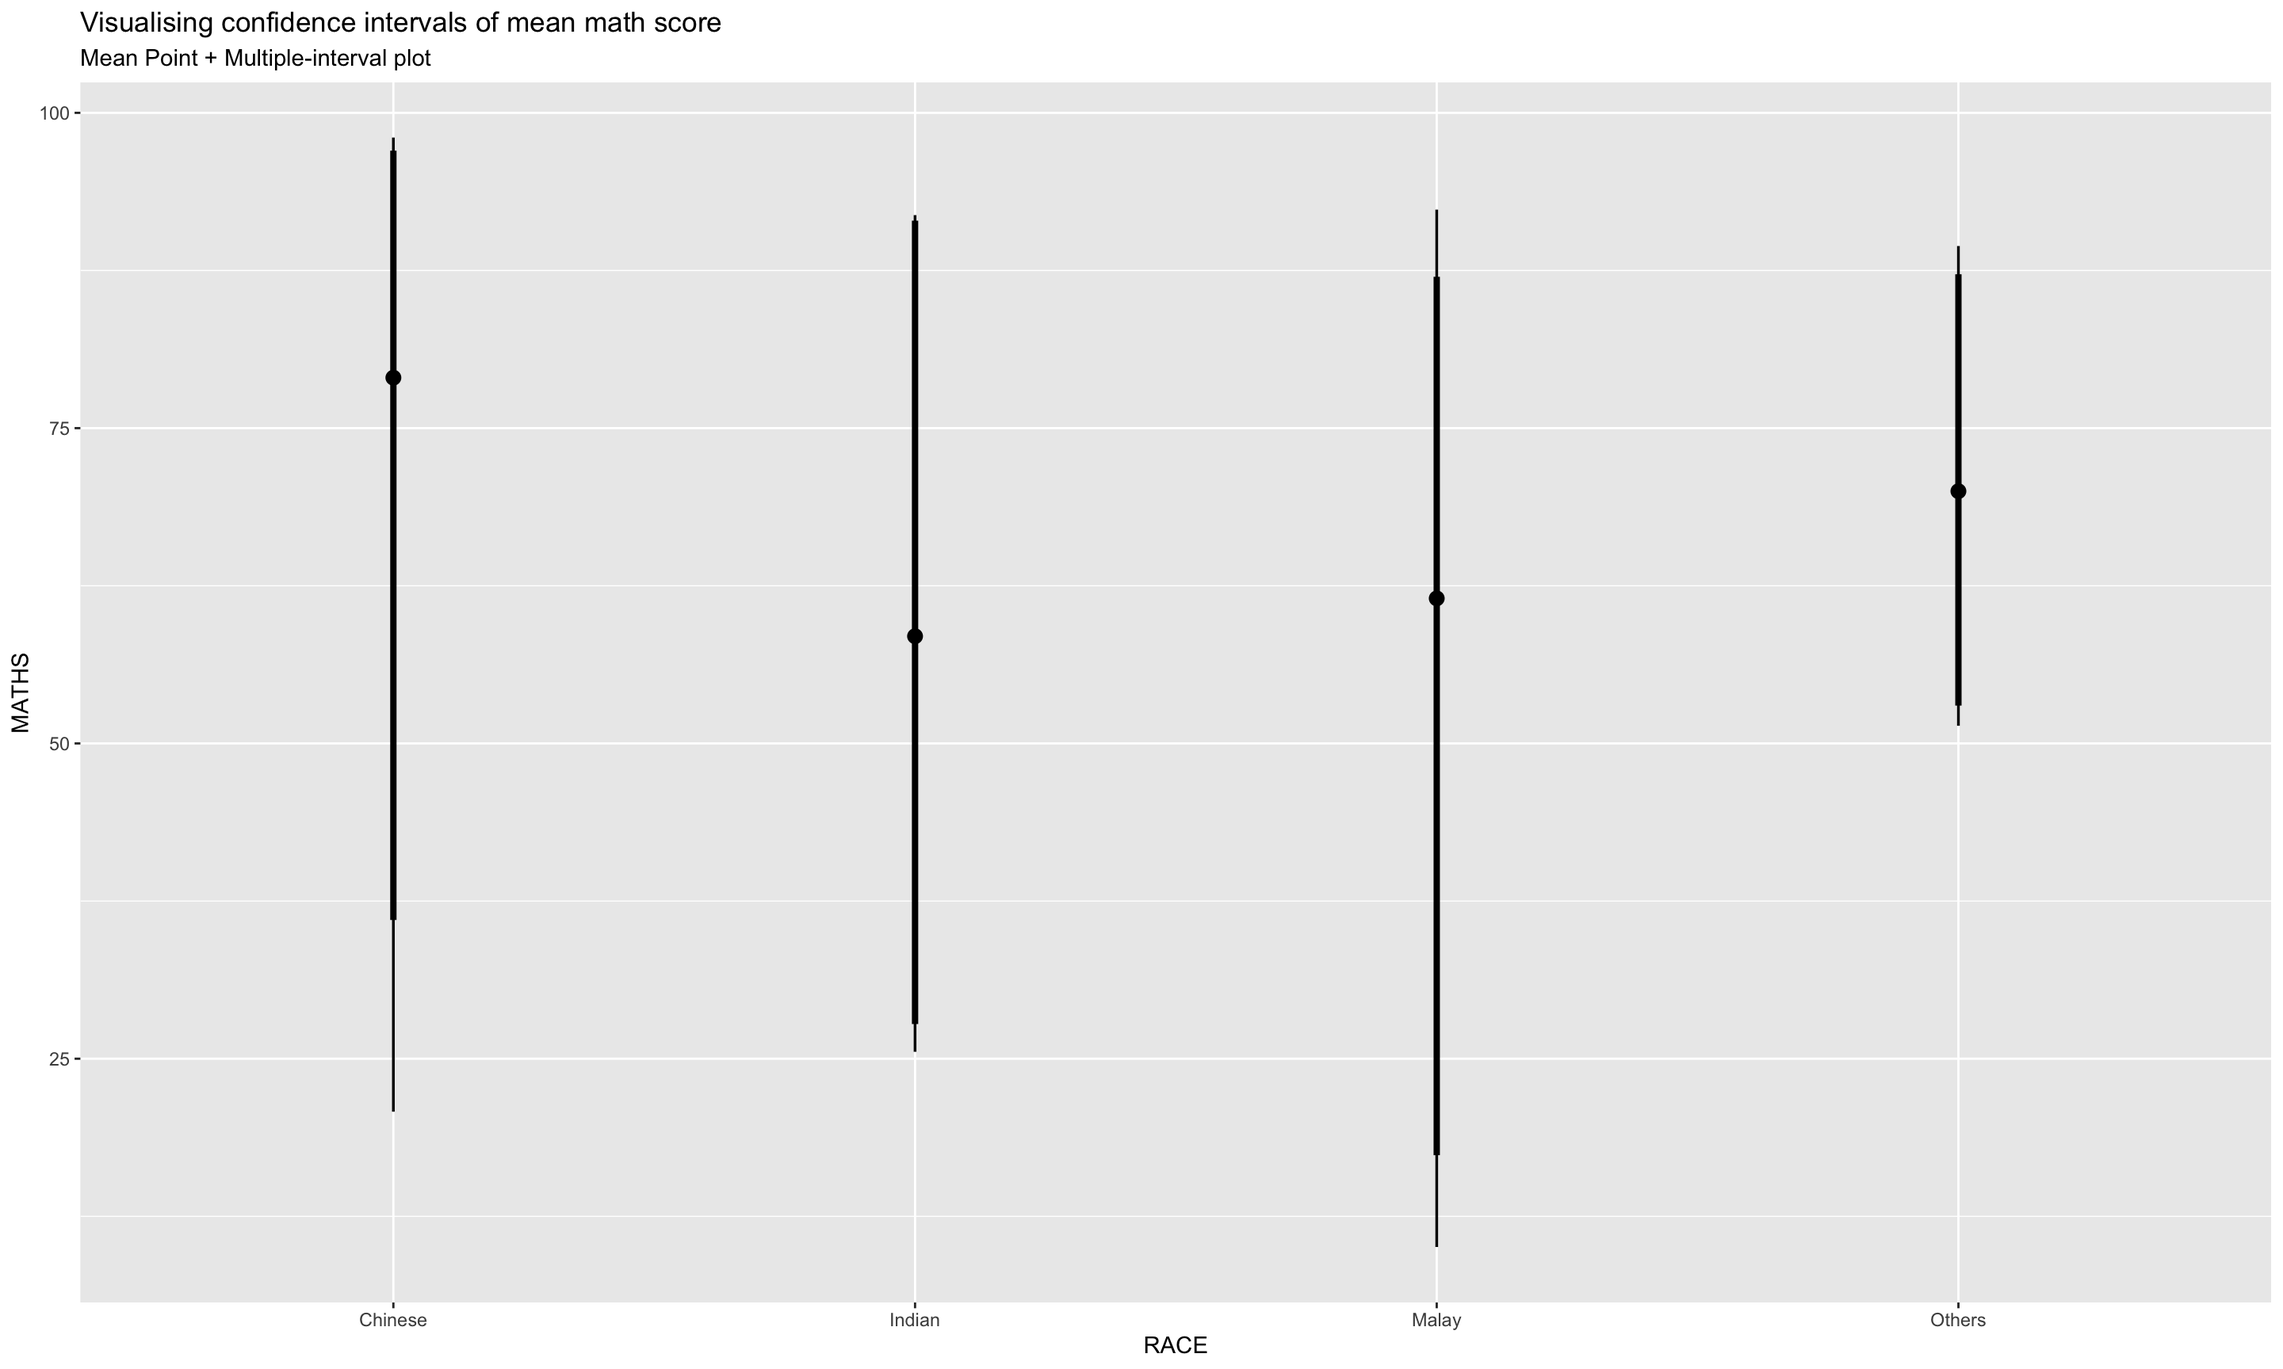
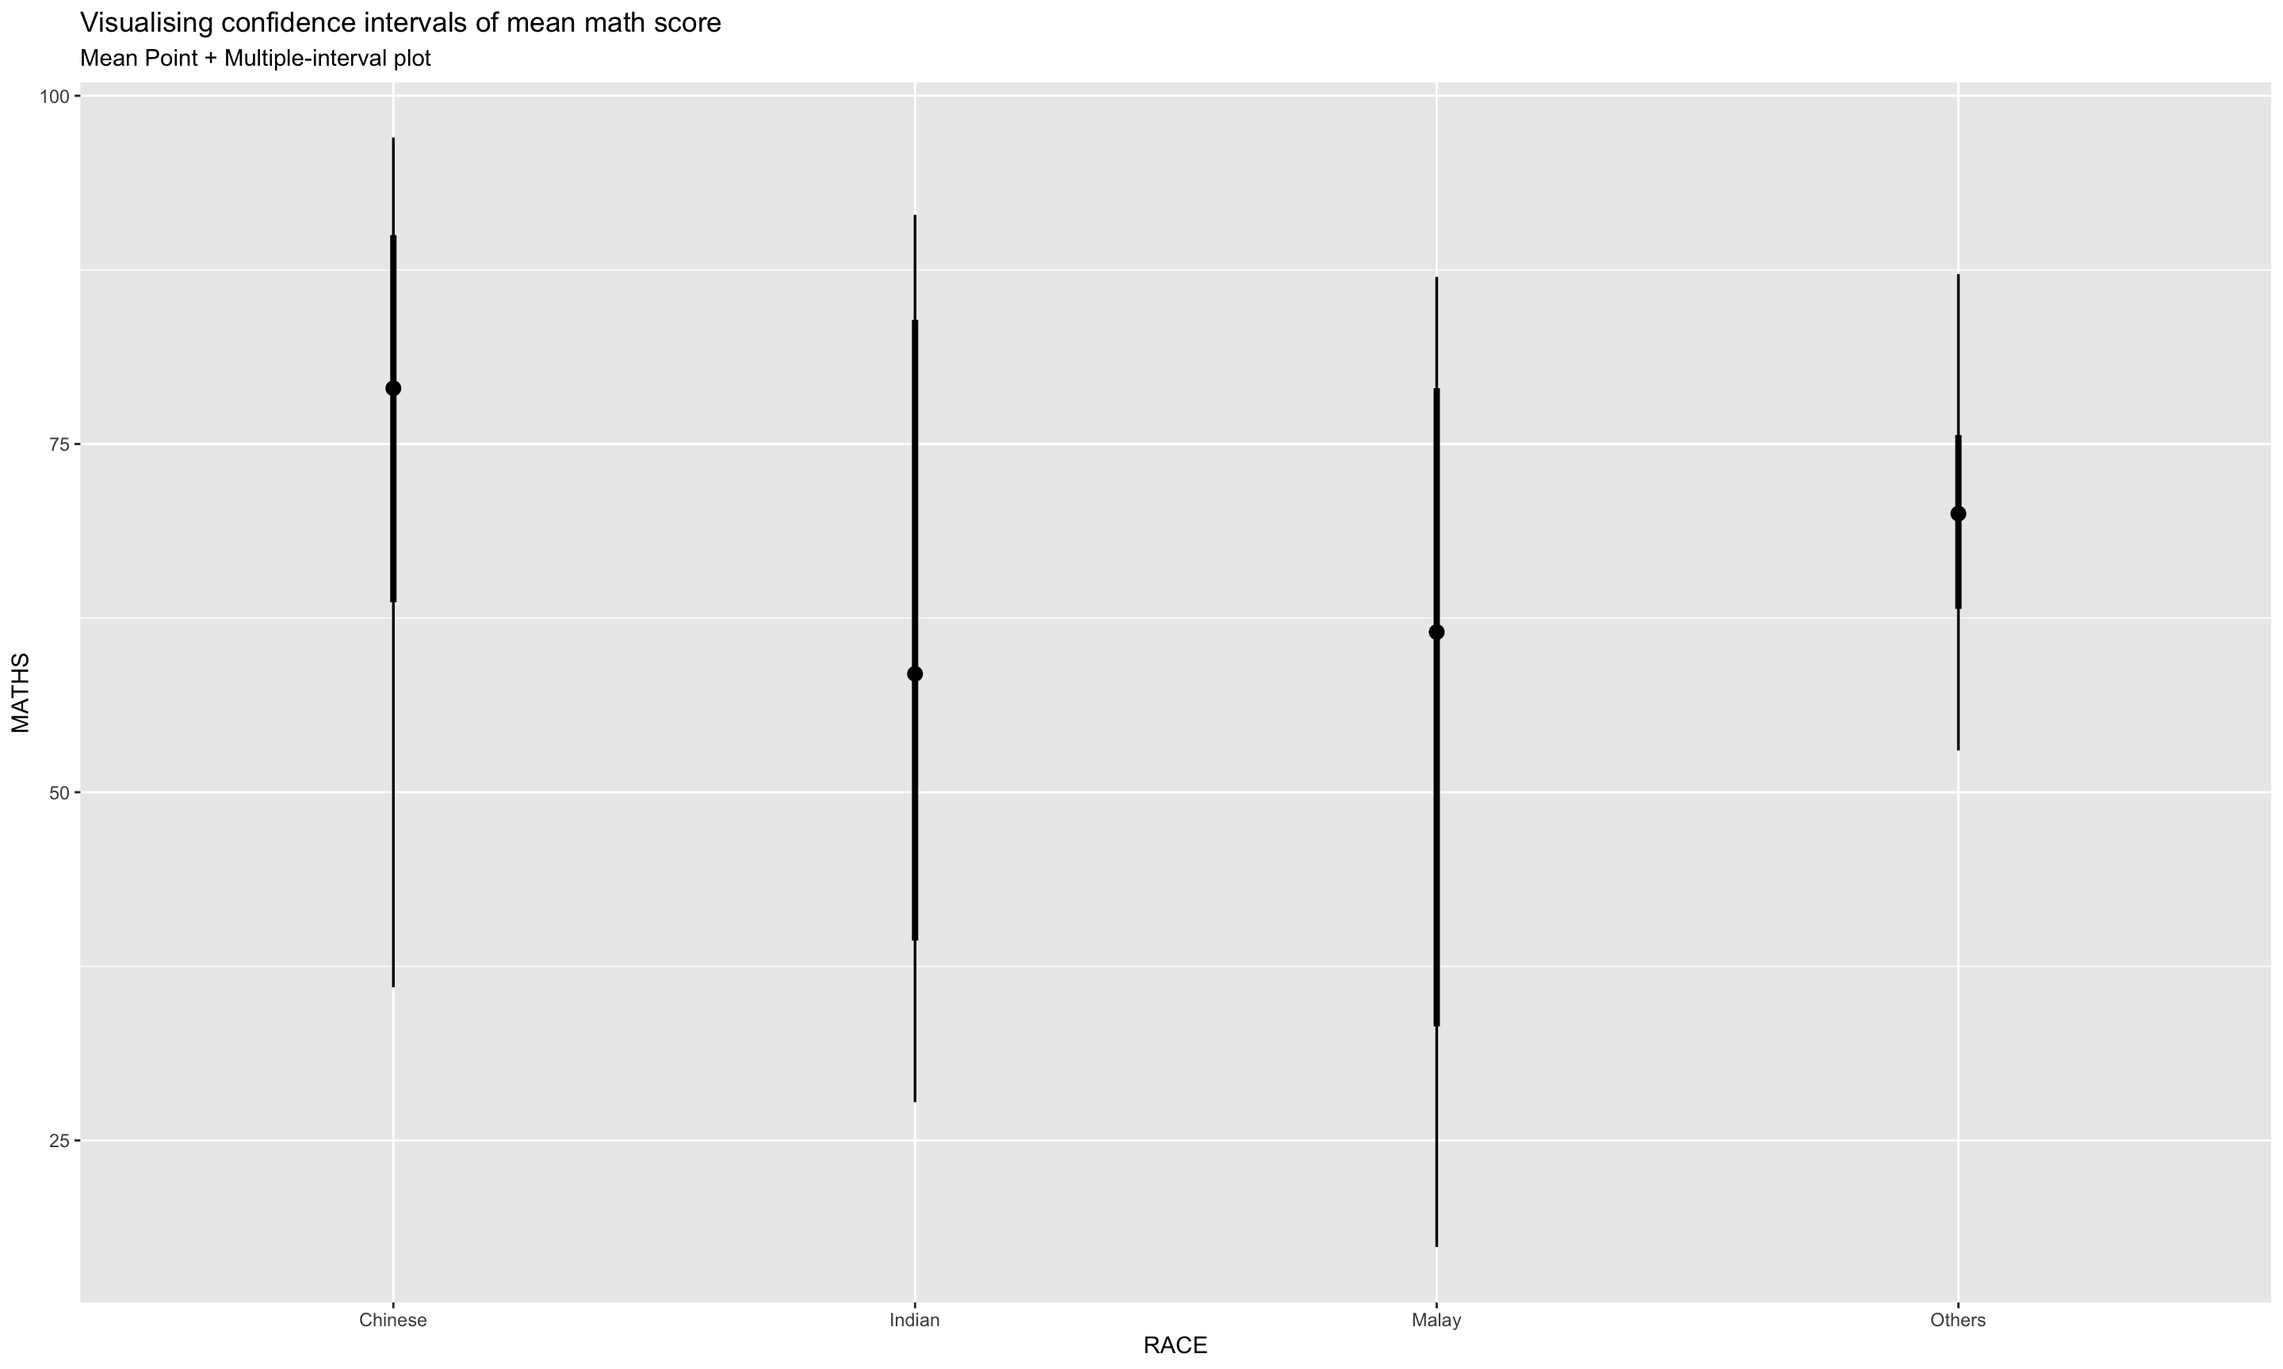
Update graph

Changed region(s): [[0.0, 0.0625, 0.0312, 0.0938]]

diff --git a/_site/Hands_on_Ex04_3.html b/_site/Hands_on_Ex04_3.html
@@ -566,12 +566,12 @@ Note
 <div class="container-fluid crosstalk-bscols">
 <div class="row">
 <div class="col-xs-4">
-<div class="plotly html-widget html-fill-item" id="htmlwidget-d764519656b48286ec9b" style="width:100%;height:400px;"></div>
-<script type="application/json" data-for="htmlwidget-d764519656b48286ec9b">{"x":{"data":[{"x":[1,3,4,2],"y":[76.507772020725383,60.666666666666671,57.444444444444429,69.666666666666671],"text":"","key":["1","2","3","4"],"type":"scatter","mode":"lines","opacity":0.90000000000000002,"line":{"color":"transparent"},"error_y":{"array":[2.9214818033281915,18.16579402963913,5.2713960499886028,9.7819093228264933],"arrayminus":[2.9214818033281915,18.16579402963913,5.2713960499886028,9.7819093228265004],"type":"data","width":17.142857142857164,"symmetric":false,"color":"rgba(0,0,0,1)"},"set":"SharedData370dd872","showlegend":false,"xaxis":"x","yaxis":"y","hoverinfo":"text","_isNestedKey":false,"frame":null},{"x":[1,3,4,2],"y":[76.507772020725383,60.666666666666671,57.444444444444429,69.666666666666671],"text":["Race: Chinese <br>N: 193 <br>Avg. Scores: 76.51 <br>99% CI:[ 73.59 , 79.43 ]","Race: Indian <br>N: 12 <br>Avg. Scores: 60.67 <br>99% CI:[ 42.5 , 78.83 ]","Race: Malay <br>N: 108 <br>Avg. Scores: 57.44 <br>99% CI:[ 52.17 , 62.72 ]","Race: Others <br>N: 9 <br>Avg. Scores: 69.67 <br>99% CI:[ 59.88 , 79.45 ]"],"key":["1","2","3","4"],"type":"scatter","mode":"markers","marker":{"autocolorscale":false,"color":"rgba(255,0,0,1)","opacity":1,"size":5.6692913385826778,"symbol":"circle","line":{"width":1.8897637795275593,"color":"rgba(255,0,0,1)"}},"hoveron":"points","set":"SharedData370dd872","showlegend":false,"xaxis":"x","yaxis":"y","hoverinfo":"text","_isNestedKey":false,"frame":null}],"layout":{"margin":{"t":40.840182648401829,"r":7.3059360730593621,"b":47.923444344685095,"l":37.260273972602747},"paper_bgcolor":"rgba(255,255,255,1)","font":{"color":"rgba(0,0,0,1)","family":"","size":14.611872146118724},"title":{"text":"99% Confidence interval of average <br />maths scores by race","font":{"color":"rgba(0,0,0,1)","family":"","size":17.534246575342465},"x":0,"xref":"paper"},"xaxis":{"domain":[0,1],"automargin":true,"type":"linear","autorange":false,"range":[0.40000000000000002,4.5999999999999996],"tickmode":"array","ticktext":["Chinese","Others","Indian","Malay"],"tickvals":[1,2,3,4],"categoryorder":"array","categoryarray":["Chinese","Others","Indian","Malay"],"nticks":null,"ticks":"","tickcolor":null,"ticklen":3.6529680365296811,"tickwidth":0,"showticklabels":true,"tickfont":{"color":"rgba(77,77,77,1)","family":"","size":11.68949771689498},"tickangle":-45,"showline":false,"linecolor":null,"linewidth":0,"showgrid":true,"gridcolor":"rgba(235,235,235,1)","gridwidth":0.66417600664176002,"zeroline":false,"anchor":"y","title":{"text":"Race","font":{"color":"rgba(0,0,0,1)","family":"","size":14.611872146118724}},"hoverformat":".2f"},"yaxis":{"domain":[0,1],"automargin":true,"type":"linear","autorange":false,"range":[40.653487469404261,81.295961157116452],"tickmode":"array","ticktext":["50","60","70","80"],"tickvals":[50,60,70,80],"categoryorder":"array","categoryarray":["50","60","70","80"],"nticks":null,"ticks":"","tickcolor":null,"ticklen":3.6529680365296811,"tickwidth":0,"showticklabels":true,"tickfont":{"color":"rgba(77,77,77,1)","family":"","size":11.68949771689498},"tickangle":-0,"showline":false,"linecolor":null,"linewidth":0,"showgrid":true,"gridcolor":"rgba(235,235,235,1)","gridwidth":0.66417600664176002,"zeroline":false,"anchor":"x","title":{"text":"Average Scores","font":{"color":"rgba(0,0,0,1)","family":"","size":14.611872146118724}},"hoverformat":".2f"},"shapes":[],"showlegend":false,"legend":{"bgcolor":null,"bordercolor":null,"borderwidth":0,"font":{"color":"rgba(0,0,0,1)","family":"","size":11.68949771689498}},"hovermode":"closest","barmode":"relative","dragmode":"zoom"},"config":{"doubleClick":"reset","modeBarButtonsToAdd":["hoverclosest","hovercompare"],"showSendToCloud":false},"source":"A","attrs":{"d695377b8d08":{"x":{},"ymin":{},"ymax":{},"type":"scatter"},"d695106824ad":{"x":{},"y":{},"text":{}}},"cur_data":"d695377b8d08","visdat":{"d695377b8d08":["function (y) ","x"],"d695106824ad":["function (y) ","x"]},"highlight":{"on":"plotly_click","persistent":false,"dynamic":false,"selectize":false,"opacityDim":0.20000000000000001,"selected":{"opacity":1},"debounce":0,"ctGroups":["SharedData370dd872"]},"shinyEvents":["plotly_hover","plotly_click","plotly_selected","plotly_relayout","plotly_brushed","plotly_brushing","plotly_clickannotation","plotly_doubleclick","plotly_deselect","plotly_afterplot","plotly_sunburstclick"],"base_url":"https://plot.ly"},"evals":[],"jsHooks":[]}</script>
+<div class="plotly html-widget html-fill-item" id="htmlwidget-c0941a604b40f86b88a2" style="width:100%;height:400px;"></div>
+<script type="application/json" data-for="htmlwidget-c0941a604b40f86b88a2">{"x":{"data":[{"x":[1,3,4,2],"y":[76.507772020725383,60.666666666666671,57.444444444444429,69.666666666666671],"text":"","key":["1","2","3","4"],"type":"scatter","mode":"lines","opacity":0.90000000000000002,"line":{"color":"transparent"},"error_y":{"array":[2.9214818033281915,18.16579402963913,5.2713960499886028,9.7819093228264933],"arrayminus":[2.9214818033281915,18.16579402963913,5.2713960499886028,9.7819093228265004],"type":"data","width":17.142857142857164,"symmetric":false,"color":"rgba(0,0,0,1)"},"set":"SharedData5ccc7537","showlegend":false,"xaxis":"x","yaxis":"y","hoverinfo":"text","_isNestedKey":false,"frame":null},{"x":[1,3,4,2],"y":[76.507772020725383,60.666666666666671,57.444444444444429,69.666666666666671],"text":["Race: Chinese <br>N: 193 <br>Avg. Scores: 76.51 <br>99% CI:[ 73.59 , 79.43 ]","Race: Indian <br>N: 12 <br>Avg. Scores: 60.67 <br>99% CI:[ 42.5 , 78.83 ]","Race: Malay <br>N: 108 <br>Avg. Scores: 57.44 <br>99% CI:[ 52.17 , 62.72 ]","Race: Others <br>N: 9 <br>Avg. Scores: 69.67 <br>99% CI:[ 59.88 , 79.45 ]"],"key":["1","2","3","4"],"type":"scatter","mode":"markers","marker":{"autocolorscale":false,"color":"rgba(255,0,0,1)","opacity":1,"size":5.6692913385826778,"symbol":"circle","line":{"width":1.8897637795275593,"color":"rgba(255,0,0,1)"}},"hoveron":"points","set":"SharedData5ccc7537","showlegend":false,"xaxis":"x","yaxis":"y","hoverinfo":"text","_isNestedKey":false,"frame":null}],"layout":{"margin":{"t":40.840182648401829,"r":7.3059360730593621,"b":47.923444344685095,"l":37.260273972602747},"paper_bgcolor":"rgba(255,255,255,1)","font":{"color":"rgba(0,0,0,1)","family":"","size":14.611872146118724},"title":{"text":"99% Confidence interval of average <br />maths scores by race","font":{"color":"rgba(0,0,0,1)","family":"","size":17.534246575342465},"x":0,"xref":"paper"},"xaxis":{"domain":[0,1],"automargin":true,"type":"linear","autorange":false,"range":[0.40000000000000002,4.5999999999999996],"tickmode":"array","ticktext":["Chinese","Others","Indian","Malay"],"tickvals":[1,2,3,4],"categoryorder":"array","categoryarray":["Chinese","Others","Indian","Malay"],"nticks":null,"ticks":"","tickcolor":null,"ticklen":3.6529680365296811,"tickwidth":0,"showticklabels":true,"tickfont":{"color":"rgba(77,77,77,1)","family":"","size":11.68949771689498},"tickangle":-45,"showline":false,"linecolor":null,"linewidth":0,"showgrid":true,"gridcolor":"rgba(235,235,235,1)","gridwidth":0.66417600664176002,"zeroline":false,"anchor":"y","title":{"text":"Race","font":{"color":"rgba(0,0,0,1)","family":"","size":14.611872146118724}},"hoverformat":".2f"},"yaxis":{"domain":[0,1],"automargin":true,"type":"linear","autorange":false,"range":[40.653487469404261,81.295961157116452],"tickmode":"array","ticktext":["50","60","70","80"],"tickvals":[50,60,70,80],"categoryorder":"array","categoryarray":["50","60","70","80"],"nticks":null,"ticks":"","tickcolor":null,"ticklen":3.6529680365296811,"tickwidth":0,"showticklabels":true,"tickfont":{"color":"rgba(77,77,77,1)","family":"","size":11.68949771689498},"tickangle":-0,"showline":false,"linecolor":null,"linewidth":0,"showgrid":true,"gridcolor":"rgba(235,235,235,1)","gridwidth":0.66417600664176002,"zeroline":false,"anchor":"x","title":{"text":"Average Scores","font":{"color":"rgba(0,0,0,1)","family":"","size":14.611872146118724}},"hoverformat":".2f"},"shapes":[],"showlegend":false,"legend":{"bgcolor":null,"bordercolor":null,"borderwidth":0,"font":{"color":"rgba(0,0,0,1)","family":"","size":11.68949771689498}},"hovermode":"closest","barmode":"relative","dragmode":"zoom"},"config":{"doubleClick":"reset","modeBarButtonsToAdd":["hoverclosest","hovercompare"],"showSendToCloud":false},"source":"A","attrs":{"d9036a2a2c4":{"x":{},"ymin":{},"ymax":{},"type":"scatter"},"d9031f6bf543":{"x":{},"y":{},"text":{}}},"cur_data":"d9036a2a2c4","visdat":{"d9036a2a2c4":["function (y) ","x"],"d9031f6bf543":["function (y) ","x"]},"highlight":{"on":"plotly_click","persistent":false,"dynamic":false,"selectize":false,"opacityDim":0.20000000000000001,"selected":{"opacity":1},"debounce":0,"ctGroups":["SharedData5ccc7537"]},"shinyEvents":["plotly_hover","plotly_click","plotly_selected","plotly_relayout","plotly_brushed","plotly_brushing","plotly_clickannotation","plotly_doubleclick","plotly_deselect","plotly_afterplot","plotly_sunburstclick"],"base_url":"https://plot.ly"},"evals":[],"jsHooks":[]}</script>
 </div>
 <div class="col-xs-8">
-<div id="htmlwidget-b030a144d633a1fad91e" style="width:100%;height:auto;" class="datatables html-widget"></div>
-<script type="application/json" data-for="htmlwidget-b030a144d633a1fad91e">{"x":{"crosstalkOptions":{"key":["1","2","3","4"],"group":"SharedData370dd872"},"filter":"none","vertical":false,"data":[["Chinese","Indian","Malay","Others"],[193,12,108,9],[76.50777202072538,60.66666666666667,57.44444444444443,69.66666666666667],[15.69040284264305,23.35237318418266,21.13478478068459,10.72380529476361],[1.132357288111705,7.041005437844626,2.043176763561474,3.791437722025775]],"container":"<table class=\"compact\">\n  <thead>\n    <tr>\n      <th> <\/th>\n      <th>No. of pupils<\/th>\n      <th>Avg Scores<\/th>\n      <th>Std Dev<\/th>\n      <th>Std Error<\/th>\n    <\/tr>\n  <\/thead>\n<\/table>","options":{"pageLength":10,"scrollX":true,"columnDefs":[{"targets":2,"render":"function(data, type, row, meta) {\n    return type !== 'display' ? data : DTWidget.formatRound(data, 2, 3, \",\", \".\", null);\n  }"},{"targets":3,"render":"function(data, type, row, meta) {\n    return type !== 'display' ? data : DTWidget.formatRound(data, 2, 3, \",\", \".\", null);\n  }"},{"targets":4,"render":"function(data, type, row, meta) {\n    return type !== 'display' ? data : DTWidget.formatRound(data, 2, 3, \",\", \".\", null);\n  }"},{"className":"dt-right","targets":[1,2,3,4]},{"orderable":false,"targets":0},{"name":"RACE","targets":0},{"name":"n","targets":1},{"name":"mean","targets":2},{"name":"sd","targets":3},{"name":"se","targets":4}],"order":[],"autoWidth":false,"orderClasses":false},"selection":{"mode":"multiple","selected":null,"target":"row","selectable":null}},"evals":["options.columnDefs.0.render","options.columnDefs.1.render","options.columnDefs.2.render"],"jsHooks":[]}</script>
+<div id="htmlwidget-a03be56994e152f7bc43" style="width:100%;height:auto;" class="datatables html-widget"></div>
+<script type="application/json" data-for="htmlwidget-a03be56994e152f7bc43">{"x":{"crosstalkOptions":{"key":["1","2","3","4"],"group":"SharedData5ccc7537"},"filter":"none","vertical":false,"data":[["Chinese","Indian","Malay","Others"],[193,12,108,9],[76.50777202072538,60.66666666666667,57.44444444444443,69.66666666666667],[15.69040284264305,23.35237318418266,21.13478478068459,10.72380529476361],[1.132357288111705,7.041005437844626,2.043176763561474,3.791437722025775]],"container":"<table class=\"compact\">\n  <thead>\n    <tr>\n      <th> <\/th>\n      <th>No. of pupils<\/th>\n      <th>Avg Scores<\/th>\n      <th>Std Dev<\/th>\n      <th>Std Error<\/th>\n    <\/tr>\n  <\/thead>\n<\/table>","options":{"pageLength":10,"scrollX":true,"columnDefs":[{"targets":2,"render":"function(data, type, row, meta) {\n    return type !== 'display' ? data : DTWidget.formatRound(data, 2, 3, \",\", \".\", null);\n  }"},{"targets":3,"render":"function(data, type, row, meta) {\n    return type !== 'display' ? data : DTWidget.formatRound(data, 2, 3, \",\", \".\", null);\n  }"},{"targets":4,"render":"function(data, type, row, meta) {\n    return type !== 'display' ? data : DTWidget.formatRound(data, 2, 3, \",\", \".\", null);\n  }"},{"className":"dt-right","targets":[1,2,3,4]},{"orderable":false,"targets":0},{"name":"RACE","targets":0},{"name":"n","targets":1},{"name":"mean","targets":2},{"name":"sd","targets":3},{"name":"se","targets":4}],"order":[],"autoWidth":false,"orderClasses":false},"selection":{"mode":"multiple","selected":null,"target":"row","selectable":null}},"evals":["options.columnDefs.0.render","options.columnDefs.1.render","options.columnDefs.2.render"],"jsHooks":[]}</script>
 </div>
 </div>
 </div>
@@ -693,14 +693,13 @@ Note
 <details class="code-fold">
 <summary>Show code block</summary>
 <div class="code-copy-outer-scaffold"><div class="sourceCode cell-code" id="cb11"><pre class="sourceCode r code-with-copy"><code class="sourceCode r"><span id="cb11-1"><a href="#cb11-1" aria-hidden="true" tabindex="-1"></a>exam <span class="sc">%&gt;%</span></span>
-<span id="cb11-2"><a href="#cb11-2" aria-hidden="true" tabindex="-1"></a>  <span class="fu">ggplot</span>(<span class="fu">aes</span>(<span class="at">x =</span> RACE,</span>
+<span id="cb11-2"><a href="#cb11-2" aria-hidden="true" tabindex="-1"></a>  <span class="fu">ggplot</span>(<span class="fu">aes</span>(<span class="at">x =</span> RACE, </span>
 <span id="cb11-3"><a href="#cb11-3" aria-hidden="true" tabindex="-1"></a>             <span class="at">y =</span> MATHS)) <span class="sc">+</span></span>
 <span id="cb11-4"><a href="#cb11-4" aria-hidden="true" tabindex="-1"></a>  <span class="fu">stat_pointinterval</span>(</span>
-<span id="cb11-5"><a href="#cb11-5" aria-hidden="true" tabindex="-1"></a>    <span class="at">.width =</span> <span class="fu">c</span>(<span class="fl">0.95</span>, <span class="fl">0.99</span>),</span>
-<span id="cb11-6"><a href="#cb11-6" aria-hidden="true" tabindex="-1"></a>    <span class="at">show.legend =</span> <span class="cn">FALSE</span>) <span class="sc">+</span></span>
-<span id="cb11-7"><a href="#cb11-7" aria-hidden="true" tabindex="-1"></a>  <span class="fu">labs</span>(</span>
-<span id="cb11-8"><a href="#cb11-8" aria-hidden="true" tabindex="-1"></a>    <span class="at">title =</span> <span class="st">"Visualising confidence intervals of mean math score"</span>,</span>
-<span id="cb11-9"><a href="#cb11-9" aria-hidden="true" tabindex="-1"></a>    <span class="at">subtitle =</span> <span class="st">"Mean Point + Multiple-interval plot"</span>)</span></code></pre></div><button title="Copy to Clipboard" class="code-copy-button"><i class="bi"></i></button></div>
+<span id="cb11-5"><a href="#cb11-5" aria-hidden="true" tabindex="-1"></a>    <span class="at">show.legend =</span> <span class="cn">FALSE</span>) <span class="sc">+</span>   </span>
+<span id="cb11-6"><a href="#cb11-6" aria-hidden="true" tabindex="-1"></a>  <span class="fu">labs</span>(</span>
+<span id="cb11-7"><a href="#cb11-7" aria-hidden="true" tabindex="-1"></a>    <span class="at">title =</span> <span class="st">"Visualising confidence intervals of mean math score"</span>,</span>
+<span id="cb11-8"><a href="#cb11-8" aria-hidden="true" tabindex="-1"></a>    <span class="at">subtitle =</span> <span class="st">"Mean Point + Multiple-interval plot"</span>)</span></code></pre></div><button title="Copy to Clipboard" class="code-copy-button"><i class="bi"></i></button></div>
 </details>
 <div class="cell-output-display">
 <div>
